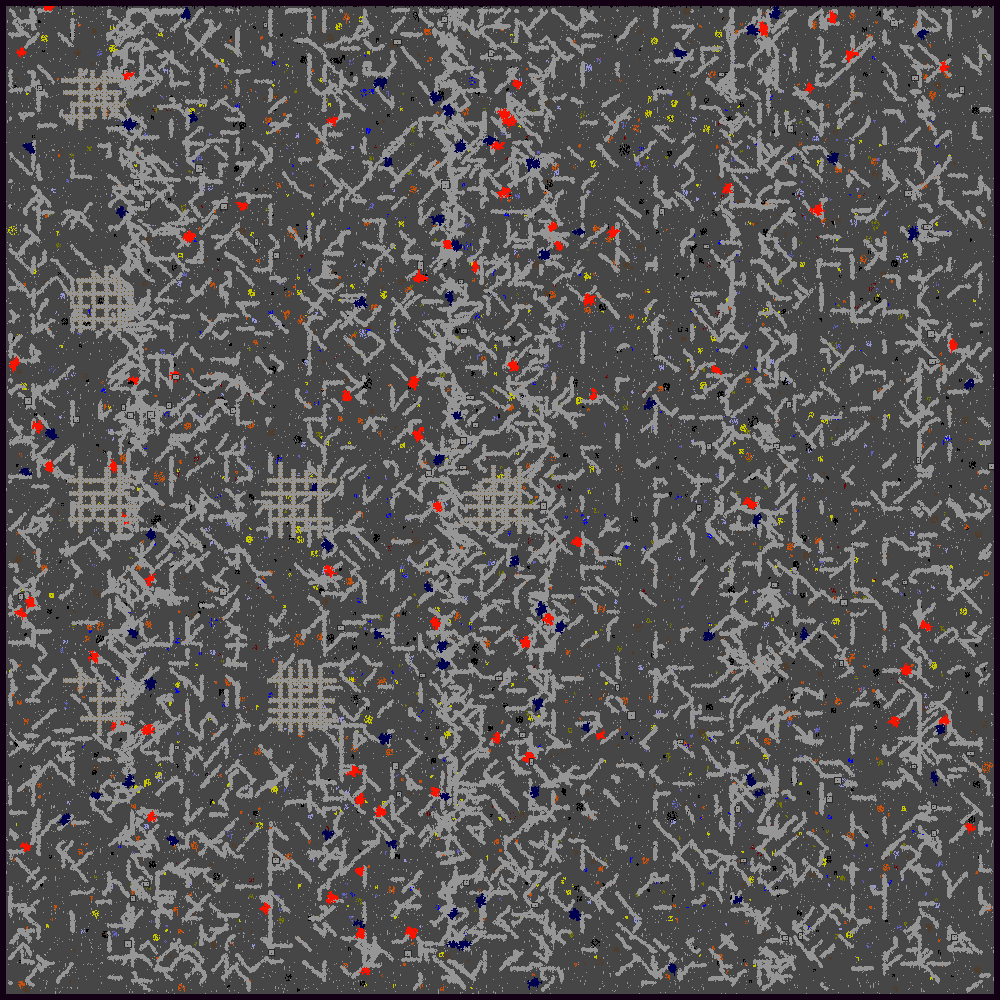
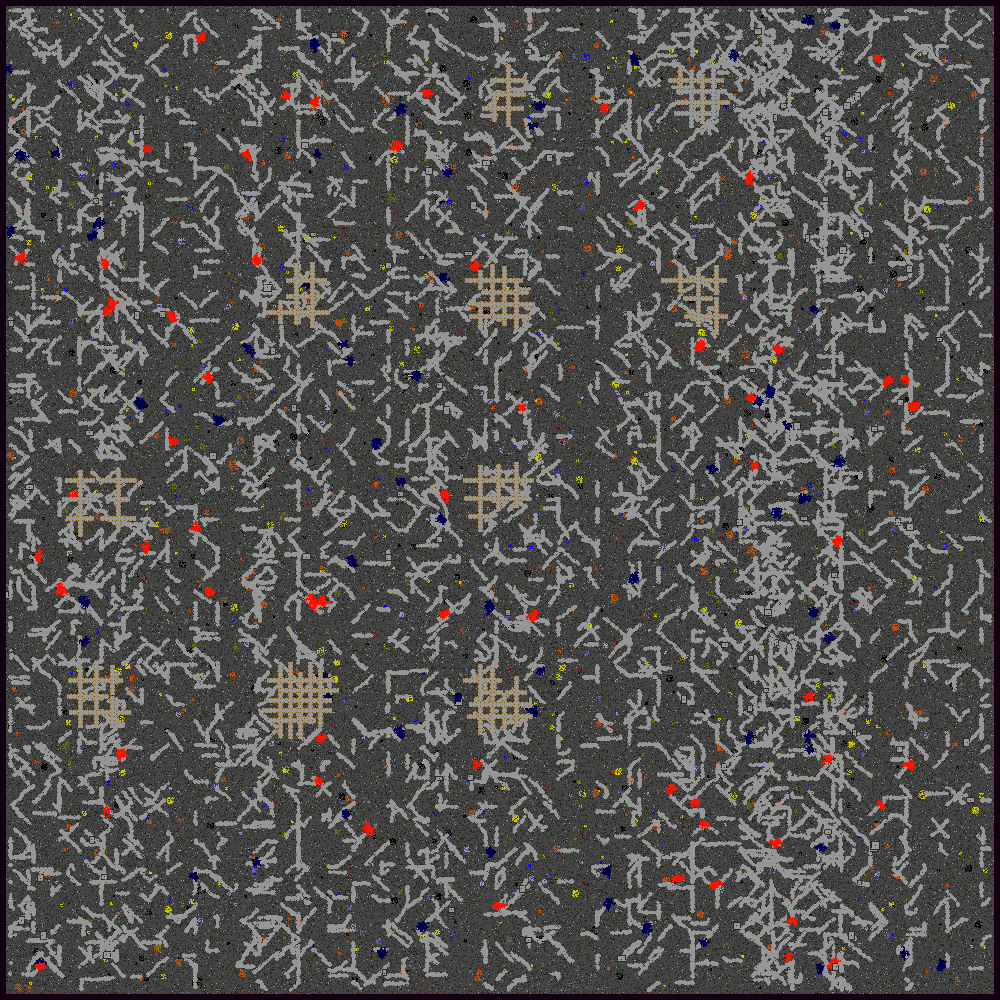
player's staring position is now randomized, also the player will no longer spawn inside a wall

diff --git a/src/com/company/CaveExplorer.java b/src/com/company/CaveExplorer.java
@@ -2,7 +2,6 @@ package com.company;
 
 import com.company.Agent.Agent;
 import com.company.Agent.PlayerCharacter.PlayerCharacter;
-import com.company.Crafting.CraftingRecipe;
 import com.company.GameStates_GameSavingAndLoading.GameState;
 import com.company.HUD.DragAndDropHandler.InventoryDragAndDropHandler;
 import com.company.HUD.InventoryWindow.CraftingPane;
@@ -173,11 +172,22 @@ public final class CaveExplorer extends Application {
         return gameState;
     }
 
+    public static void findStartigPosition(int sideLengthInTiles){
+        while (true){
+            int x = (int)(Math.random()*sideLengthInTiles+1);
+            int y = (int)(Math.random()*sideLengthInTiles+1);
+            if(MainGameScene.getBoard().getBoardTileTypes()[x][y] == 0){
+                playerCharacter.relocate(GameValues.getTileSideLength()*x,GameValues.getTileSideLength()*y+1);
+               return;
+            }
+        }
+    }
     public static void startNewGame(int sideLengthInTiles, double oreAmount, double terrainAmount, double structureAmount){
         playerCharacter = new PlayerCharacter();
         mainGameScene = new MainGameScene(sideLengthInTiles, oreAmount, terrainAmount, structureAmount);
         gameScene = new Scene(mainGameScene, GameValues.getWindowSideLength(),GameValues.getWindowSideLength());
-        playerCharacter.relocate(GameValues.getTileSideLength()*sideLengthInTiles/2,GameValues.getTileSideLength()*sideLengthInTiles/2+1);
+        //playerCharacter.relocate(GameValues.getTileSideLength()*sideLengthInTiles/2,GameValues.getTileSideLength()*sideLengthInTiles/2+1);
+        findStartigPosition(sideLengthInTiles);
         MainGameScene.getBoard().getChildren().add(playerCharacter);
         updateView();
     }
